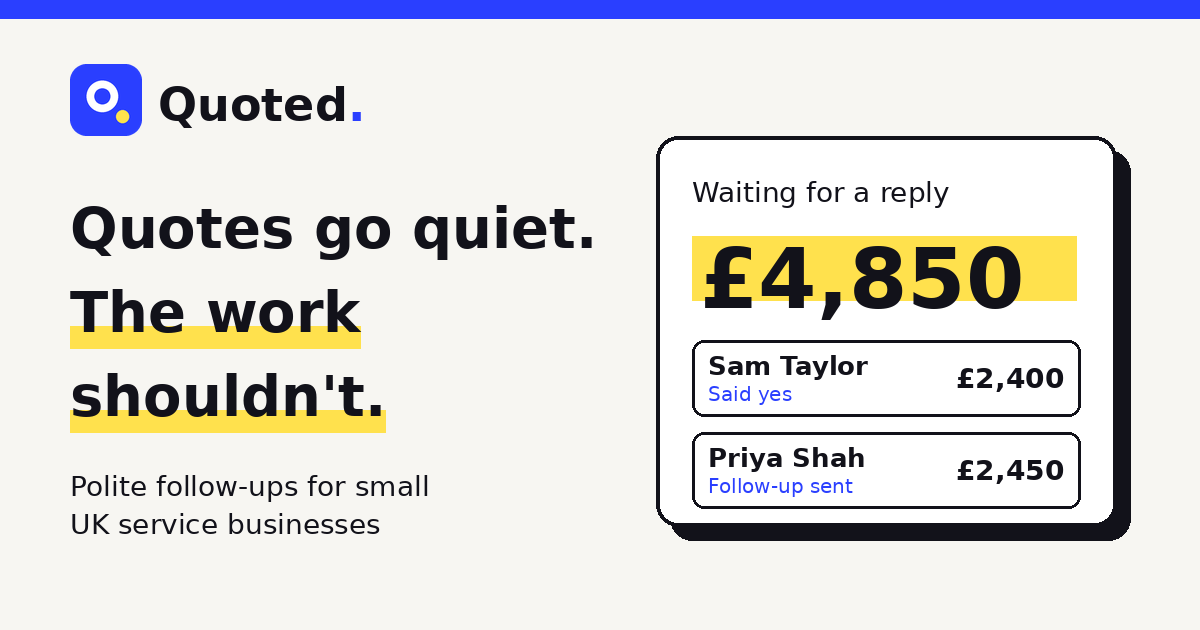
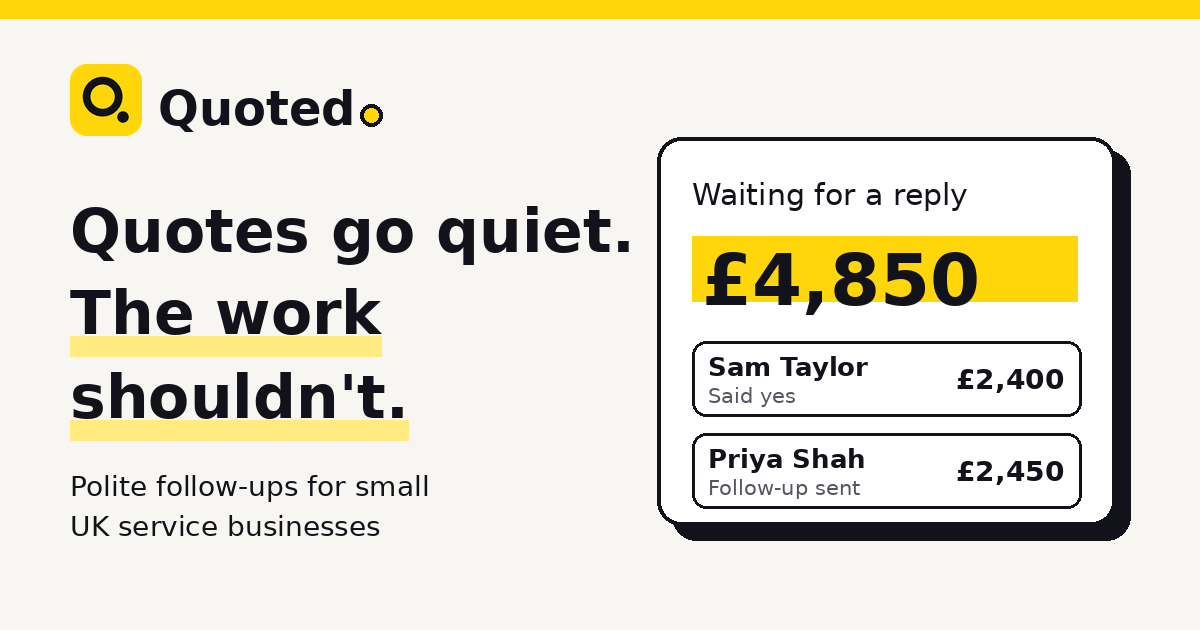
Add files via upload

diff --git a/src/index.css b/src/index.css
@@ -10,11 +10,11 @@
   --color-base-200: #f7f6f2;
   --color-base-300: #e4e2dc;
   --color-base-content: #12121a;
-  --color-primary: #2a3fff;
-  --color-primary-content: #ffffff;
-  --color-secondary: #ffe14d;
+  --color-primary: #ffd60a;
+  --color-primary-content: #12121a;
+  --color-secondary: #ffeb80;
   --color-secondary-content: #12121a;
-  --color-accent: #ffe14d;
+  --color-accent: #ffeb80;
   --color-accent-content: #12121a;
   --color-neutral: #12121a;
   --color-neutral-content: #f7f6f2;
@@ -44,12 +44,12 @@
   --color-base-200: #0f0f10;
   --color-base-300: #2a2a2e;
   --color-base-content: #f2f2f3;
-  --color-primary: #8e9bff;
-  --color-primary-content: #0b1033;
-  --color-secondary: #ffe14d;
-  --color-secondary-content: #1a1500;
-  --color-accent: #ffe14d;
-  --color-accent-content: #1a1500;
+  --color-primary: #ffd60a;
+  --color-primary-content: #12121a;
+  --color-secondary: #ffd60a;
+  --color-secondary-content: #12121a;
+  --color-accent: #ffd60a;
+  --color-accent-content: #12121a;
   --color-neutral: #3f3f46;
   --color-neutral-content: #f2f2f3;
   --color-info: #60a5fa;
@@ -78,9 +78,10 @@
 /* Colours that follow the chosen mode and accent (set in theme.ts). */
 :root, [data-theme="nudge"] {
   --ink: #12121a; --paper: #f7f6f2; --card: #ffffff; --line: #12121a; --line-soft: #e4e2dc; --muted: #55555f; --shadow: #12121a;
-  --accent: #2a3fff; --accent-text: #2a3fff; --accent-content: #ffffff; --highlight: #ffe14d; --highlight-solid: #ffe14d;
+  --accent: #ffd60a; --accent-text: #12121a; --accent-content: #12121a; --highlight: #ffeb80; --highlight-solid: #ffeb80;
 }
 [data-theme="nudge-dark"] {
+  --accent: #ffd60a; --accent-text: #ffd60a; --accent-content: #12121a; --highlight: rgba(255,214,10,0.30); --highlight-solid: #ffd60a;
   --ink: #f2f2f3; --paper: #0f0f10; --card: #1a1a1c; --line: #3f3f46; --line-soft: #2a2a2e; --muted: #a1a1aa; --shadow: #000000;
 }
 html { background: var(--paper); }
@@ -88,7 +89,13 @@ body { font-family: var(--font-sans); color: var(--ink); background: var(--paper
 h1, h2, h3 { font-family: var(--font-display); letter-spacing: -0.01em; }
 .input, .select, .textarea { background-color: var(--card); color: var(--ink); border-color: var(--line); }
 .input::placeholder, .textarea::placeholder { color: var(--muted); opacity: 1; }
-.link { color: var(--accent-text); }
+.link { color: var(--accent-text); text-decoration: underline; text-underline-offset: 3px; text-decoration-color: var(--accent); text-decoration-thickness: 2px; }
+
+/* Primary buttons: accent fill, ink outline, hard shadow. */
+.btn-primary { border: 2px solid var(--ink); box-shadow: 3px 3px 0 var(--shadow); transition: transform .08s, box-shadow .08s; }
+.btn-primary:hover { box-shadow: 4px 4px 0 var(--shadow); }
+.btn-primary:active { transform: translate(3px, 3px); box-shadow: 0 0 0 var(--shadow); }
+.btn-primary:disabled, .btn-primary.btn-disabled { box-shadow: none; }
 details > summary { cursor: pointer; }
 
 /* Key cards: 2px border with a hard offset shadow. */

diff --git a/src/theme.ts b/src/theme.ts
@@ -1,11 +1,11 @@
 // Appearance: a light or dark mode plus an accent colour. Saved on this device straight away,
 // and on the account (see Settings) so it follows the person to other devices.
 export type Mode = "light" | "dark" | "system";
-type Palette = { name: string; light: string; hl: string; dark: string; darkContent: string; hlDark: string; hlSolid?: string };
-const YELLOW = "#FFE14D"; // the highlighter
+type Palette = { name: string; light: string; hl: string; dark: string; darkContent: string; hlDark: string; hlSolid?: string; text?: string; content?: string };
+const YELLOW = "#FFEB80"; // the highlighter (a softer yellow than the accent)
 
 export const PALETTES = {
-  signature: { name: "Quoted blue", light: "#2A3FFF", hl: YELLOW, dark: "#8E9BFF", darkContent: "#0B1033", hlDark: "rgba(255,225,77,0.30)" },
+  signature: { name: "Quoted yellow", light: "#FFD60A", text: "#12121A", content: "#12121A", hl: YELLOW, dark: "#FFD60A", darkContent: "#12121A", hlDark: "rgba(255,214,10,0.30)" },
   forest: { name: "Forest", light: "#0E7A55", hl: "#FFD84D", dark: "#34D399", darkContent: "#052E1F", hlDark: "rgba(255,216,77,0.32)" },
   ocean: { name: "Ocean", light: "#0E7490", hl: "#FFE08A", dark: "#22D3EE", darkContent: "#04323B", hlDark: "rgba(255,224,138,0.30)" },
   sunset: { name: "Sunset", light: "#C2410C", hl: "#FDE68A", dark: "#FB923C", darkContent: "#3B1503", hlDark: "rgba(253,230,138,0.30)" },
@@ -36,10 +36,12 @@ export function applyAppearance(a: Appearance) {
   const p = PALETTES[a.accent];
   const root = document.documentElement;
   const accent = dark ? p.dark : p.light;
-  const content = dark ? p.darkContent : "#ffffff";
+  const q = p as Palette;
+  const content = dark ? q.darkContent : (q.content ?? "#ffffff");
+  const text = dark ? q.dark : (q.text ?? q.light);
   root.dataset.theme = dark ? "nudge-dark" : "nudge";
   const set = (k: string, v: string) => root.style.setProperty(k, v);
-  set("--accent", accent); set("--accent-text", accent); set("--accent-content", content);
+  set("--accent", accent); set("--accent-text", text); set("--accent-content", content);
   set("--highlight", dark ? p.hlDark : p.hl); set("--highlight-solid", dark ? p.hlSolid : p.hl);
   set("--color-primary", accent); set("--color-primary-content", content);
   document.querySelector('meta[name="theme-color"]')?.setAttribute("content", dark ? "#0f0f10" : accent);

diff --git a/server/lib/layout.ts b/server/lib/layout.ts
@@ -5,5 +5,5 @@ import { escapeHtml } from "./util.js";
 export function emailShell(env: Env, inner: string): string {
   const company = [env.COMPANY_NAME, env.COMPANY_NUMBER ? `Company no. ${env.COMPANY_NUMBER}` : "", env.COMPANY_ADDRESS]
     .filter(Boolean).map(escapeHtml).join(" | ");
-  return `<div style="background:#F7F6F2;padding:24px 12px"><div style="max-width:520px;margin:0 auto;background:#ffffff;border:2px solid #12121A;border-radius:12px;padding:28px;font-family:Arial,sans-serif;color:#12121A"><p style="margin:0 0 20px;font-size:22px;font-weight:bold">${escapeHtml(env.PRODUCT_NAME || "Quoted")}<span style="color:#2A3FFF">.</span></p>${inner}</div>${company ? `<p style="max-width:520px;margin:12px auto 0;font-size:12px;line-height:1.5;color:#55555F;text-align:center;font-family:Arial,sans-serif">${company}</p>` : ""}</div>`;
+  return `<div style="background:#F7F6F2;padding:24px 12px"><div style="max-width:520px;margin:0 auto;background:#ffffff;border:2px solid #12121A;border-radius:12px;padding:28px;font-family:Arial,sans-serif;color:#12121A"><p style="margin:0 0 20px;font-size:22px;font-weight:bold">${escapeHtml(env.PRODUCT_NAME || "Quoted")}<span style="display:inline-block;width:7px;height:7px;border-radius:50%;background:#FFD60A;border:2px solid #12121A;margin-left:2px"></span></p>${inner}</div>${company ? `<p style="max-width:520px;margin:12px auto 0;font-size:12px;line-height:1.5;color:#55555F;text-align:center;font-family:Arial,sans-serif">${company}</p>` : ""}</div>`;
 }

diff --git a/server/launch.ts b/server/launch.ts
@@ -121,8 +121,8 @@ export function launchMail(env: Env, r: Recipient): Mail {
     `Questions? Reply to this email or write to ${env.SUPPORT_EMAIL || env.FROM_EMAIL}.`,
     `Thanks again,\nThe ${product} team`,
   ];
-  const html = emailShell(env, `${lines.slice(0, 4).map((p) => `<p style="font-size:16px;line-height:1.5;margin:0 0 16px">${escapeHtml(p).replace(link, `<a href="${escapeHtml(link)}" style="color:#2A3FFF">${escapeHtml(link)}</a>`)}</p>`).join("")}
-<p style="margin:0 0 20px"><a href="${escapeHtml(link)}" style="display:inline-block;background:#2A3FFF;color:#ffffff;text-decoration:none;font-weight:bold;padding:14px 24px;border-radius:8px">See the plans</a></p>
+  const html = emailShell(env, `${lines.slice(0, 4).map((p) => `<p style="font-size:16px;line-height:1.5;margin:0 0 16px">${escapeHtml(p).replace(link, `<a href="${escapeHtml(link)}" style="color:#12121A;text-decoration:underline">${escapeHtml(link)}</a>`)}</p>`).join("")}
+<p style="margin:0 0 20px"><a href="${escapeHtml(link)}" style="display:inline-block;background:#FFD60A;color:#12121A;border:2px solid #12121A;text-decoration:none;font-weight:bold;padding:14px 24px;border-radius:8px">See the plans</a></p>
 ${lines.slice(4).map((p) => `<p style="font-size:16px;line-height:1.5;margin:0 0 12px">${escapeHtml(p).replace(/\n/g, "<br>")}</p>`).join("")}`);
   return { to: r.email, subject: `Early access has ended: your founding-member offer`, text: lines.join("\n\n"), html };
 }

diff --git a/server/lib/email.ts b/server/lib/email.ts
@@ -49,7 +49,7 @@ export function signInEmail(env: Env, to: string, token: string, invite: boolean
     : `Use the button to sign in to ${name}. The link works once and expires in 15 minutes.`;
   const text = `${lead}\n\n${link}\n\nIf you did not ask for this, you can ignore this email.`;
   const html = emailShell(env, `<p style="font-size:16px;line-height:1.5;margin:0 0 20px">${escapeHtml(lead)}</p>
-<p style="margin:0 0 20px"><a href="${escapeHtml(link)}" style="display:inline-block;background:#2A3FFF;color:#ffffff;text-decoration:none;font-weight:bold;padding:14px 24px;border-radius:8px">Sign in</a></p>
+<p style="margin:0 0 20px"><a href="${escapeHtml(link)}" style="display:inline-block;background:#FFD60A;color:#12121A;border:2px solid #12121A;text-decoration:none;font-weight:bold;padding:14px 24px;border-radius:8px">Sign in</a></p>
 <p style="font-size:13px;line-height:1.5;color:#55555F;margin:0 0 8px">If the button does not work, paste this into your browser:<br>${escapeHtml(link)}</p>
 <p style="font-size:13px;color:#55555F;margin:0">If you did not ask for this, you can ignore this email.</p>`);
   return {

diff --git a/server/lib/followup.ts b/server/lib/followup.ts
@@ -24,7 +24,7 @@ export function followupMail(env: Env, q: FollowupQuote, step: number): Mail {
   const paras = body.split(/\n{2,}/).map((p) =>
     `<p style="margin:0 0 16px;font-size:16px;line-height:1.5">${escapeHtml(p).replace(/\n/g, "<br>")}</p>`).join("");
   const html = `<div style="font-family:Arial,sans-serif;color:#12121A;max-width:480px;margin:0 auto;padding:24px">${paras}
-${btn(yes, "Yes, go ahead", "#2A3FFF", "#ffffff", "#2A3FFF")}${btn(ask, "I have a question", "#ffffff", "#12121A", "#12121A")}${btn(no, "Not interested", "#F7F6F2", "#12121A", "#D9D7D0")}
+${btn(yes, "Yes, go ahead", "#FFD60A", "#12121A", "#12121A")}${btn(ask, "I have a question", "#ffffff", "#12121A", "#12121A")}${btn(no, "Not interested", "#F7F6F2", "#12121A", "#D9D7D0")}
 <p style="margin:16px 0 0;font-size:16px">Kind regards,<br>${escapeHtml(q.bname)}</p>
 <p style="margin:24px 0 0;font-size:12px;color:#55555F">Sent by ${escapeHtml(q.bname)} using ${escapeHtml(product)}. Don't want these emails? <a href="${escapeHtml(unsub)}" style="color:#55555F">Unsubscribe</a></p></div>`;
 

diff --git a/src/components/Logo.tsx b/src/components/Logo.tsx
@@ -6,10 +6,10 @@ export default function Logo({ name = "Quoted", size = 30, mark = true }: { name
         <svg width={size} height={size} viewBox="0 0 64 64" aria-hidden="true" focusable="false">
           <rect width="64" height="64" rx="15" style={{ fill: "var(--accent)" }} />
           <circle cx="29" cy="29" r="14" fill="none" strokeWidth="7" style={{ stroke: "var(--accent-content)" }} />
-          <circle cx="47" cy="47" r="6" style={{ fill: "var(--highlight-solid)" }} />
+          <circle cx="47" cy="47" r="5" style={{ fill: "var(--accent-content)" }} />
         </svg>
       )}
-      <span className="font-display font-extrabold text-xl tracking-tight">{name}<span style={{ color: "var(--accent-text)" }}>.</span></span>
+      <span className="font-display font-extrabold text-xl tracking-tight">{name}<span aria-hidden="true" className="ml-0.5 inline-block rounded-full border-2 border-(--ink) bg-(--accent)" style={{ width: "0.32em", height: "0.32em" }} /><span className="sr-only">.</span></span>
     </span>
   );
 }

diff --git a/server/respond.ts b/server/respond.ts
@@ -58,6 +58,6 @@ export function ownerNotice(env: Env, q: TokenQuote, label: string): Mail {
     to: q.owner_email,
     subject: `${q.client_name} replied: ${label}`,
     text: `${line}\n\nOpen the quote: ${link}`,
-    html: emailShell(env, `<p style="font-size:16px;line-height:1.5;margin:0 0 20px">${escapeHtml(line)}</p><p style="margin:0"><a href="${escapeHtml(link)}" style="display:inline-block;background:#2A3FFF;color:#ffffff;text-decoration:none;font-weight:bold;padding:14px 24px;border-radius:8px">Open the quote</a></p>`),
+    html: emailShell(env, `<p style="font-size:16px;line-height:1.5;margin:0 0 20px">${escapeHtml(line)}</p><p style="margin:0"><a href="${escapeHtml(link)}" style="display:inline-block;background:#FFD60A;color:#12121A;border:2px solid #12121A;text-decoration:none;font-weight:bold;padding:14px 24px;border-radius:8px">Open the quote</a></p>`),
   };
 }

diff --git a/index.html b/index.html
@@ -3,7 +3,7 @@
   <head>
     <meta charset="UTF-8" />
     <meta name="viewport" content="width=device-width, initial-scale=1" />
-    <meta name="theme-color" content="#0E7A55" />
+    <meta name="theme-color" content="#FFD60A" />
     <meta name="color-scheme" content="light dark" />
     <meta property="og:type" content="website" />
     <meta property="og:site_name" content="Quoted." />
